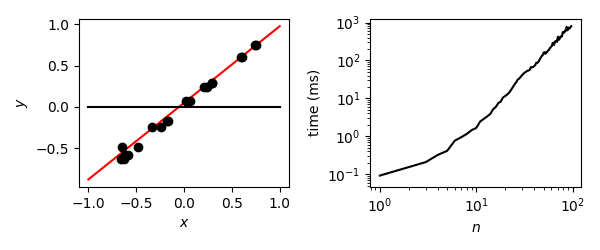
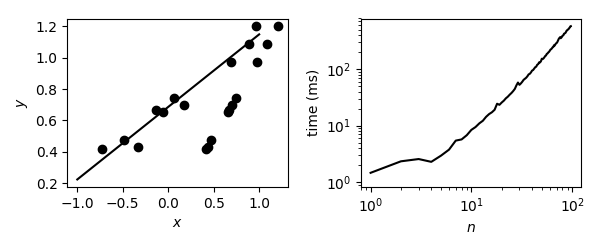
.

diff --git a/demos/conjugate_gradient/main.cpp b/demos/conjugate_gradient/main.cpp
@@ -1,8 +1,29 @@
 #include <fstream>
 #include <ctime>
 #include "../../src/matrix.hpp"
-#include "cg.cpp"
 using namespace std;
+
+// conjugate gradient
+template <typename T>
+matrix<T> conjugate_gradient(matrix<T> A, matrix<T> b, matrix<T> c0, T tol) {
+  int iters=0, n=A.shape[0]-1;
+  matrix<T> c(n+1,1), p(n+1,1), r(n+1,1), Ap(n+1,1);
+  T alpha, beta, rtr;
+  p = r = b - A*c0;
+  rtr = dot(r,r);
+  while (norm(r) > tol) {
+    Ap = A*p;
+    alpha = rtr / dot(p, Ap);
+    c = c + alpha*p;
+    beta = rtr;
+    r = r - alpha*Ap;
+    rtr = dot(r,r);
+    beta = rtr / beta;
+    p = r + beta*p;
+    iters += 1;
+  }
+  return c;
+}
 
 int main() {
 
@@ -19,21 +40,22 @@ int main() {
 
     m = 10*n;
     matrix<real> X(m,n+1), Xt(n+1,m), y(m,1);
-    matrix<real> A(n+1,n+1), b(n+1,1), c(n+1,1), c0(n+1,1);
+    matrix<real> A(n+1,n+1), b(n+1,1), c(n+1,1);
 
     sprintf(filename, "data/c_%i.txt", n);
-    ifile.open(filename, ifstream::in);
+    ifile.open(filename);
     if(ifile.is_open()) {
       for(int i=0; i<=n; i++) {
         ifile >> c(i);
       }
     }
+    ifile.close();
 
     for (int dataset=0; dataset<10; dataset++) {
 
       // read data
       sprintf(filename, "data/xy_%i_%i.txt", n, dataset);
-      ifile.open(filename, ifstream::in);
+      ifile.open(filename);
       if(ifile.is_open()) {
         for(int i=0; i<m; i++) {
           X(i,0) = 1.;
@@ -43,21 +65,24 @@ int main() {
           ifile >> y(i,0);
         }
       }
+      ifile.close();
 
       // conj grad
       Xt = transpose(X);
       A = Xt*X;
       b = Xt*y;
-      c0 = 0.;
-      c0 = conjugate_gradient(A, b, c0, 1e-10, n);
+      c = 0.;
+      c = conjugate_gradient(A, b, c, 1e-10);
 
       if (n==1 && dataset == 0) {
         ofile.open("data/c_1_min.txt", ios::trunc);
-        ofile << c0(0,0) << " " << c0(1,0) << endl;
+        ofile << c(0,0) << " " << c(1,0) << endl;
         ofile.close();
       }
 
       stop_s = clock();
+
+      cout << n << " " << times(n-1,0) << endl;
       times(n-1,0) = times(n-1,0) + (stop_s-start_s)/double(CLOCKS_PER_SEC);
     }
   }

diff --git a/demos/conjugate_gradient/plot_fig.py b/demos/conjugate_gradient/plot_fig.py
@@ -18,8 +18,8 @@ times = np.loadtxt('data/times.txt')
 fig, ax = plt.subplots(1, 2, figsize=(6, 2.5))
 
 x_grid = np.linspace(-1, 1)
-c = np.loadtxt('data/c_1.txt')
-ax[0].plot(x_grid, f(x_grid), 'r-')
+# c = np.loadtxt('data/c_1.txt')
+# ax[0].plot(x_grid, f(x_grid), 'r-')
 c = np.loadtxt('data/c_1_min.txt')
 ax[0].plot(x_grid, f(x_grid), 'k-')
 ax[0].plot(x, y, 'ko')
